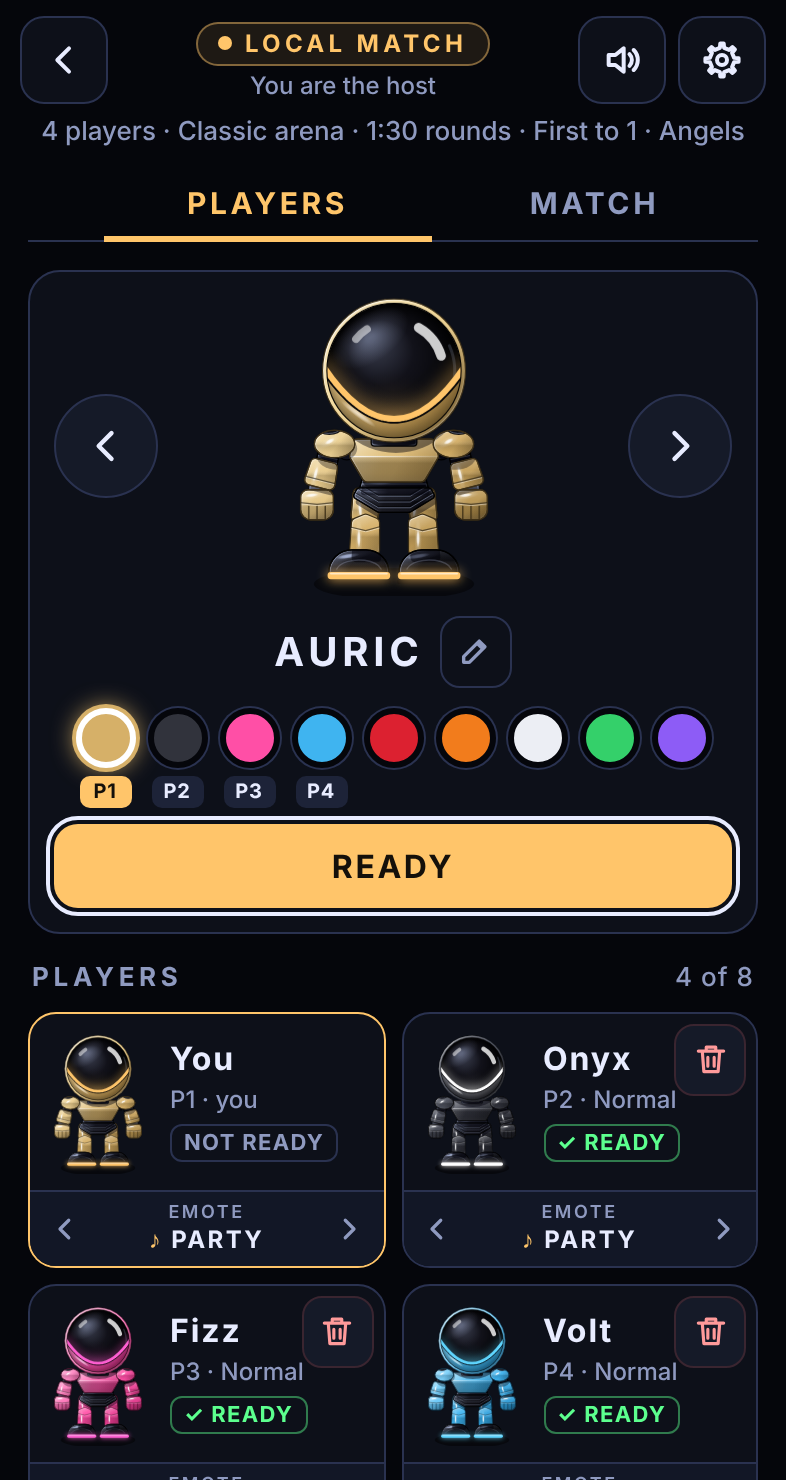
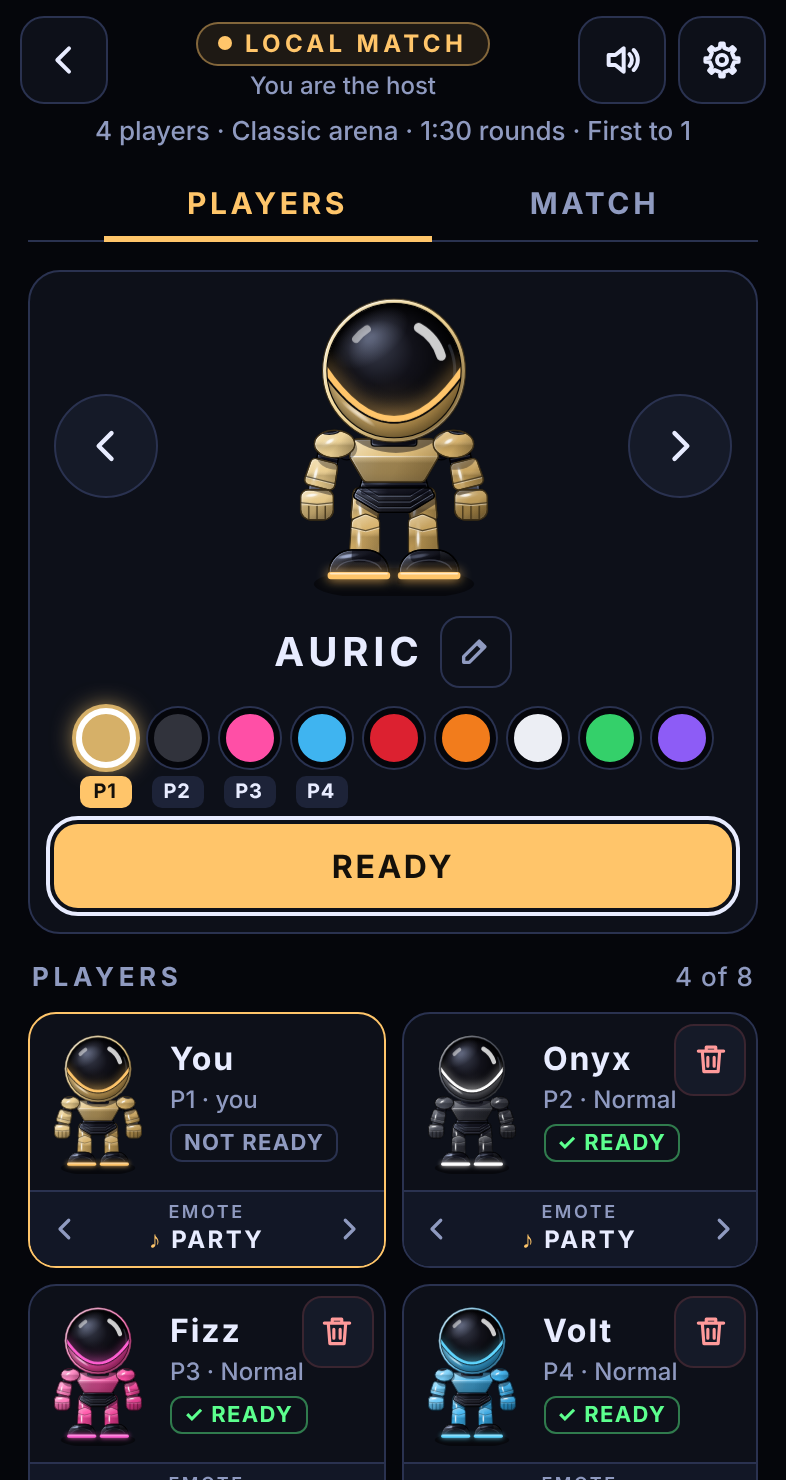
Angels off by default
A setup saved while they were on by default starts with them off again.

Claude-Session: https://claude.ai/code/session_011ftAyXDt63myZfd3j4Vhew

Changed region(s): [[0.0611, 0.0622, 0.9466, 0.0932]]

diff --git a/src/setup.ts b/src/setup.ts
@@ -107,7 +107,7 @@ export const MAX_FIRST_TO = 9;
  * call; it was 3), so a setup saved before then has its Rounds to win put back to 1. 3: Closing in has five
  * steps in place of three (Slow, Normal, Fast became Very slow, Normal, Fast).
  */
-export const SETUP_VERSION = 4;
+export const SETUP_VERSION = 5;
 
 export interface MatchSetup {
   /** SETUP_VERSION when it was saved */
@@ -158,7 +158,7 @@ export function defaultSetup(myColor: string): MatchSetup {
     itemsOn: false,
     items: { bomb: 2, fire: 2, speed: 2, kick: 2, grab: 2, shield: 2, curse: 2 },
     lives: 1,
-    angels: true,
+    angels: false, // off by default (the owner's call)
     angelsBack: false,
   };
 }
@@ -277,8 +277,9 @@ export function readSetup(raw: unknown, myColor: string, colorIds: string[]): Ma
     for (const [k] of ITEM_CHANCE) out.items[k] = clampInt((r.items as Record<string, unknown>)[k], 0, ITEM_AMOUNTS.length - 1, 2);
   }
   out.lives = clampInt(r.lives, 1, MAX_LIVES, 1);
-  // (saved before version 4 there were no angels: they come on, as for a new setup)
-  if (typeof r.angels === 'boolean') out.angels = r.angels;
+  // Angels were on by default in version 4, for one evening; the owner had them off by default, so a setup
+  // saved then starts with them off again, like a new one
+  if (typeof r.angels === 'boolean' && typeof r.v === 'number' && r.v >= 5) out.angels = r.angels;
   if (typeof r.angelsBack === 'boolean') out.angelsBack = r.angelsBack;
   return out;
 }

diff --git a/CLAUDE.md b/CLAUDE.md
@@ -63,7 +63,7 @@ Do not undo these unless asked. The reasons are in `docs/ROADMAP.md` and `docs/C
 - The player in the lead wears a crooked crown (`leader` in `main.ts`, `drawCrown` and `Pose.crown` in `robot.ts`) on the scoreboard and on its robot. Nobody has it before the first win; it changes hands only when another player gets strictly ahead.
 - The end of a round: when you are knocked out for good (no life left, and not an angel) a panel says how, and the round carries on behind it so its winner still gets the win; when the round is decided the panel says who won. The panel (`#resultCard`) never covers the arena: over the controls when upright, in the side column otherwise. Once a round is decided nobody is given any input, nothing more can happen to the winner, and no more blocks start to fall.
 - Knocked out (`drawPlayer` in `render.ts`, 1.5 s, `DEATH_TICKS` 90): burnt black with crosses for eyes, crumbling into ash that drifts up, while a pale ghost in a faint suit colour, with angel wings and a halo (`drawWings`, `drawHalo`), floats up out of the arena to the top of the screen and fades as it nears the top (`drawGhosts` in `render.ts`, on its own layer `#ghosts`; `GHOST_SPEED`, `GHOST_FADE`; `deadTicks` counts on to `GHOST_TICKS` 300 for it). It rose 1.5 tiles at first, then 3. Under a fallen block only the ghost. The winner does the victory dance they picked (`danceFrame` in `dances.ts`).
-- Lives and angels (sim.ts, the owner's choices; GAME-RULES.md, Lives and angels): the lobby's Lives (1 to 5, per round, default 1) and Angels (on by default) with Angels come back under it (off by default). A lost life comes back after 2 s at its starting place (`comeBackTile`) with only the starting kit, safe from blasts for 2 s (blinking). Out of lives with angels on, a robot is an angel on the outer wall (`angelStep`): the direction glides it round, holding A winds up a throw 2 to 6 tiles in (a ring marks where), one 2-tile bomb out at a time; with Angels come back, an angel whose bomb knocks a robot out takes its place. Robots coming back count as still in; angels do not. CPU players are angels too (`angelInput` in bot.ts). Angels are drawn on the ghost layer (`drawAngels`) whatever the ghosts setting; the floating ghost is skipped for a robot that becomes an angel or comes back. No knocked-out panel for a lost life or for an angel; a one-line tip (`showTip`) says how angels play, the first time in a match. The scoreboard shows a dot per life left when Lives is above 1.
+- Lives and angels (sim.ts, the owner's choices; GAME-RULES.md, Lives and angels): the lobby's Lives (1 to 5, per round, default 1) and Angels (off by default: the owner's call, after a first version had them on) with Angels come back under it (off by default). A lost life comes back after 2 s at its starting place (`comeBackTile`) with only the starting kit, safe from blasts for 2 s (blinking). Out of lives with angels on, a robot is an angel on the outer wall (`angelStep`): the direction glides it round, holding A winds up a throw 2 to 6 tiles in (a ring marks where), one 2-tile bomb out at a time; with Angels come back, an angel whose bomb knocks a robot out takes its place. Robots coming back count as still in; angels do not. CPU players are angels too (`angelInput` in bot.ts). Angels are drawn on the ghost layer (`drawAngels`) whatever the ghosts setting; the floating ghost is skipped for a robot that becomes an angel or comes back. No knocked-out panel for a lost life or for an angel; a one-line tip (`showTip`) says how angels play, the first time in a match. The scoreboard shows a dot per life left when Lives is above 1.
 - Controls tab: Steering thumb (left by default; right mirrors the layout and the standard lean, and each thumb keeps its own match) and Swipe direction, a Standard / My thumb switch. The side in use is tagged On, and the pad's corner caption shows it during play. Switching to Standard keeps the saved match.
 - A turn takes the next opening ahead. The robot never doubles back to one it has passed, beyond half a tile.
 - The robot looks the way it was last asked to go (`p.facing = dir` in `movePlayer`), at once: at a block, and while still walking to an opening. A throw goes the way it looks. `heading` is the way it is really moving. Standing still on a tile where the way asked for is a block, it only turns; it sets off for the next tile's opening once the direction has been held for `LOOK_TICKS` (9 ticks, 0.15 s). No pause while running or when its own tile has the opening.

diff --git a/docs/ROADMAP.md b/docs/ROADMAP.md
@@ -138,7 +138,7 @@ This is the brief the project started from.
 | Each arena has its own time and closing speed | The owner asked for the rules to scale with the arena, and chose them one by one: Compact 1:00 rounds with the blocks closing in slightly faster (Quick, 42 s), Classic as it was (1:30, Normal 50 s), Big 2:00 with the same closing speed as Classic. They are put in every time an arena is picked, and can be changed after. Bricks and power-ups stay as they are, since they already scale with the number of tiles. Closing in gained two steps for this (Slow 60 s, Quick 42 s), and the old Slow and Fast became Very slow and Fast. (Claude had suggested Fast for Compact and Slow for Big, which would land blocks about 0.5 s apart on every arena; the owner chose otherwise.) |
 | Rounds to win is 1 by default | The owner's call: a match is one round unless the lobby says otherwise (it was first to 3). Setups saved before the change have their Rounds to win put back to 1 (`SETUP_VERSION` in `setup.ts`). |
 | A flash on every press | The owner asked for menu buttons to react when tapped, so the player knows it worked. Claude's pick: a soft glow in the accent colour, a little brighter, pressed in slightly, for about a fifth of a second, on every menu button (arrows, Ready, Start, dots, tabs, switches), however it is pressed. Not on the round's A and B. |
-| Lives and angels | The owner asked for both, ahead of the rest of step 3, and chose: lives per round (1 to 5), coming back at your corner with only what you start with; an angel throws as far as A is held (2 to 6 tiles in); and whether an angel whose bomb knocks a robot out comes back in its place is a setting (Angels come back, off by default). Angels are on by default. Claude's picks: 2 s to come back and 2 s of blinking safety, an angel's bomb a 2-tile blast and one at a time, CPU angels resting between throws by level. |
+| Lives and angels | The owner asked for both, ahead of the rest of step 3, and chose: lives per round (1 to 5), coming back at your corner with only what you start with; an angel throws as far as A is held (2 to 6 tiles in); and whether an angel whose bomb knocks a robot out comes back in its place is a setting (Angels come back, off by default). Angels are off by default (they were on at first; the owner had that changed). Claude's picks: 2 s to come back and 2 s of blinking safety, an angel's bomb a 2-tile blast and one at a time, CPU angels resting between throws by level. |
 | Three dances: Party, Spin, Wave | The owner settled on the first three and asked for the Griddy to become the Wave (the arm wave). The Percolator and Gangnam were taken out, and with them the knees pose added for the Percolator. A saved Griddy now reads as the Wave; a saved Percolator or Gangnam as Party. |
 | The Percolator, done properly | The owner asked for it to follow a real tutorial. Its signature is in the legs: weight on the balls of the feet, knees snapping in together and back apart on the beat (Charleston-like), with a bubbly bounce on the off-beat, the upper body fairly still and the hands rolling in front. The robot could not bend its knees, so a new pose was added (`Pose.knees`: the thigh tips about the hip, the shin and boot tip back about the knee). The first version, a low bounce with pumping fists and shuffling feet, was replaced. |
 | Two more dances, by name | The owner asked for the Percolator and the Gangnam Style dance. Both are built from what a robot can do (arms raised to a height, steps, hops, crouch, lean, slide): the Percolator bounces low with fists pumping in turn and feet shuffling; Gangnam gallops holding the reins, then raises one arm for the lasso. Gangnam Style is shortened to Gangnam on the cards so it fits. |

diff --git a/docs/GAME-RULES.md b/docs/GAME-RULES.md
@@ -209,7 +209,7 @@ The blocks were made 20% faster on 11 November 2026, after play-testing: they to
 - While it is on its way back it is still in the round: the round is not decided until only one robot is left that is standing or coming back, and if that last one is on its way back, the round waits for it to be standing.
 - The scoreboard shows a dot under each head for each life left, when the lobby gives more than one.
 
-**Angels** (the lobby's Angels, on by default): a robot out of lives becomes an angel once its knocked-out animation has played (`ANGEL_DELAY`), on the outer wall at the point nearest where it fell.
+**Angels** (the lobby's Angels, off by default): a robot out of lives becomes an angel once its knocked-out animation has played (`ANGEL_DELAY`), on the outer wall at the point nearest where it fell.
 
 - The direction glides it round the wall (`ANGEL_SPEED`, 4.5 tiles a second): along the top and bottom, left and right; up and down the sides; either at a corner. Let go and it settles on the middle of a wall tile.
 - **Hold A and let go** to throw a bomb over the wall into the arena, straight in from the tile it is over: a tap throws it 2 tiles in (`ANGEL_MIN_TILES`), and each quarter of a second held (`ANGEL_CHARGE_TICKS`) adds a tile, up to 6 (`ANGEL_MAX_TILES`). A ring in its colour marks where it will land while A is held. It lands like any thrown bomb (on a taken tile it bounces on), has the usual fuse, and a blast of 2 tiles each way (`ANGEL_FIRE`). One out at a time (`ANGEL_BOMBS`); not from a corner.
@@ -305,7 +305,7 @@ The host can change these before a match. Left alone, every one is the usual rul
 | Custom start | Bombs 1 to 8, blast 1 to 8 tiles, speed +0 to +6 | What everyone starts each round with (`startBombs`, `startFire`, `startSpeed`) |
 | Custom power-ups | For each kind: Off, Rare (half), Normal, Lots (double) | Its chance under a brick (`itemChance`). A boot and a glove are only made sure of when they are not Off |
 | Lives | 1 to 5 | Lives each robot has in a round (`lives`); see Lives and angels |
-| Angels | On (the default) or off; under it, Angels come back | Out of lives, a robot haunts the wall and throws bombs in (`angels`: 'on'; 'revive' with Angels come back) |
+| Angels | Off (the default) or on; under it, Angels come back | Out of lives, a robot haunts the wall and throws bombs in (`angels`: 'on'; 'revive' with Angels come back) |
 
 ## Not in the game yet
 
